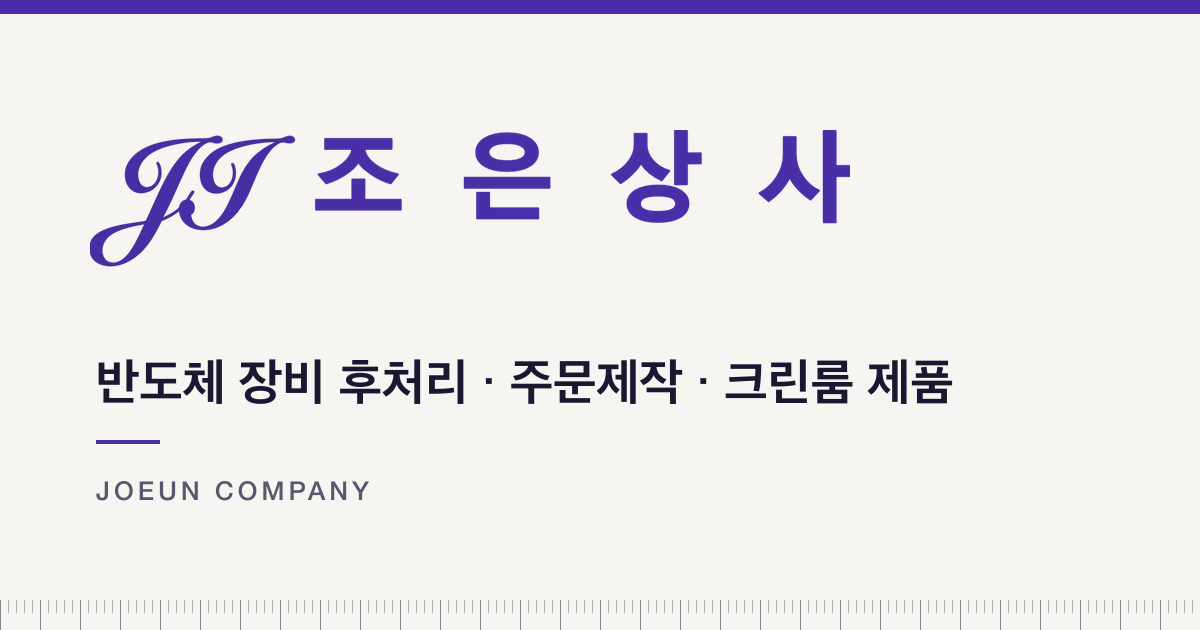
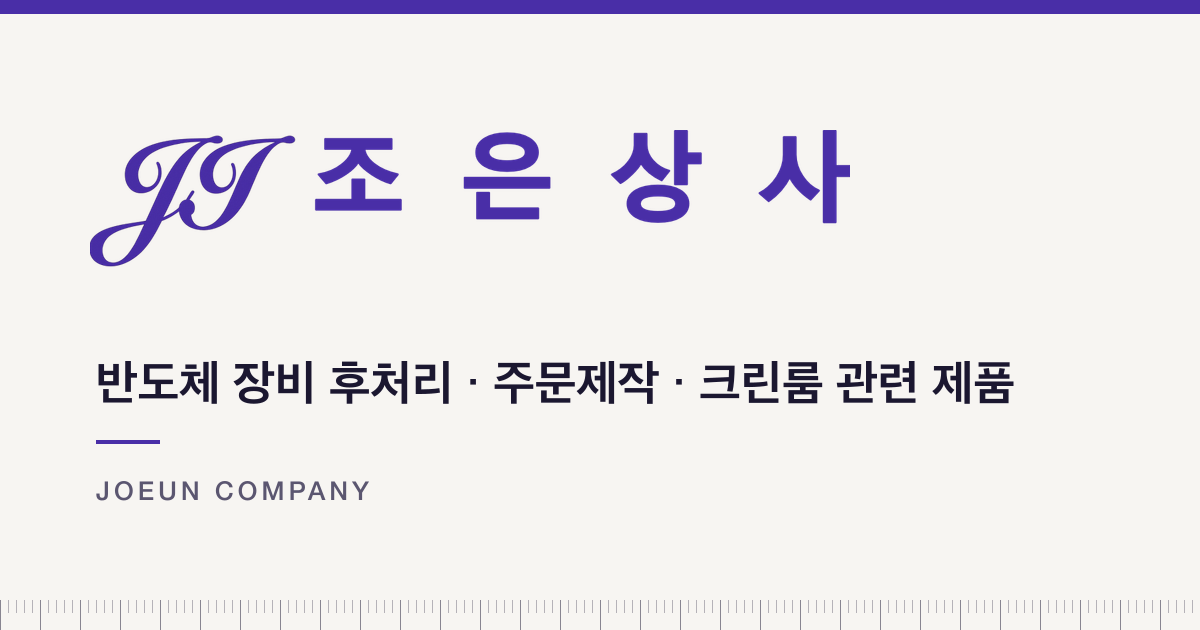
feat: 주소에서 B1 제거 및 크린룸 용품을 "크린룸 관련 제품"으로 변경
- 주소의 "B1" 표기를 제거 (푸터, 문의, 회사소개, 지도 링크, 구조화 데이터)
- 크린룸 용품 카테고리를 "크린룸 관련 제품"으로 변경하고 취급 품목을
  마스크, 클린면봉, 테프론(PTFE) 제작, 세라믹 제작, 특수 테이프,
  각종 약품으로 교체 (품목별 설명 추가, 제작 품목 상담 안내 섹션 추가)
- 이미지가 없는 품목은 번호 타일로 표시
- 사이트 제목/설명/키워드, 홈 히어로, 푸터, 문의 유형, 공유(OG) 이미지 문구 갱신
- 사용하지 않게 된 헤어캡·장갑 이미지 삭제, README 갱신

Changed region(s): [[0.0617, 0.573, 0.8633, 0.6635]]

diff --git a/src/lib/services.ts b/src/lib/services.ts
@@ -24,8 +24,8 @@ export const serviceCategories: Record<
     description: "알루미늄·SUS403 제품 주문제작과 용접, 샌딩 작업",
   },
   cleanroom: {
-    label: "크린룸 제품",
-    description: "헤어캡, 마스크, 면봉, 장갑 등 크린룸 소모품",
+    label: "크린룸 관련 제품",
+    description: "크린룸 소모품, 테프론·세라믹 제작, 특수 테이프, 각종 약품",
   },
 };
 
@@ -161,7 +161,7 @@ export const images = {
   ),
   supplies: stockPhoto(
     "cleanroom-supplies",
-    "마스크와 장갑 등 크린룸 소모품",
+    "마스크 등 크린룸 소모품",
     "Polina Tankilevitch (Pexels)",
     "https://www.pexels.com/photo/pastel-colored-face-masks-on-white-background-7337879/",
     "Pexels License",
@@ -188,14 +188,6 @@ const productPhoto = (
 
 /** 취급 품목별 이미지 (스톡 사진). 실제 제품 사진이 생기면 같은 이름으로 교체하세요. */
 const productImages = {
-  haircap: productPhoto(
-    "haircap",
-    "헤어캡",
-    "kaboompics.com (Pexels)",
-    "https://www.pexels.com/photo/person-holding-a-bouffant-cap-8538701/",
-    "Pexels License",
-    true,
-  ),
   mask: productPhoto(
     "mask-white",
     "흰색 일회용 마스크",
@@ -210,28 +202,6 @@ const productImages = {
     "https://www.pexels.com/photo/close-up-shot-of-cotton-buds-7612836/",
     "Pexels License",
     true,
-  ),
-  gloveCotton: productPhoto(
-    "glove-cotton",
-    "목장갑",
-    "gadaji66 (Pixabay)",
-    "https://pixabay.com/photos/work-gloves-gloves-red-gloves-865500/",
-    "Pixabay Content License",
-    true,
-  ),
-  gloveCoated: productPhoto(
-    "glove-coated",
-    "반코팅 목장갑",
-    "gadaji66 (Pixabay)",
-    "https://pixabay.com/photos/work-gloves-gloves-red-gloves-865500/",
-    "Pixabay Content License",
-  ),
-  gloveNitrile: productPhoto(
-    "glove-nitrile",
-    "니트릴 장갑",
-    "Callum Hilton (Pexels)",
-    "https://www.pexels.com/photo/a-pair-of-blue-latex-gloves-7856715/",
-    "Pexels License",
   ),
 } as const;
 
@@ -377,20 +347,15 @@ export const services: Service[] = [
     slug: "cleanroom-products",
     category: "cleanroom",
     image: images.supplies,
-    name: "크린룸 제품",
-    subtitle: "헤어캡·마스크·면봉·장갑 등 크린룸 소모품",
+    name: "크린룸 관련 제품",
+    subtitle: "마스크·면봉부터 테프론·세라믹 제작, 특수 테이프, 각종 약품까지",
     summary:
-      "크린룸 작업 환경에서 사용하는 헤어캡, 마스크, 면봉, 장갑 등 크린룸 소모품을 취급합니다.",
+      "크린룸과 반도체 현장에서 필요한 마스크, 면봉, 테프론(PTFE)·세라믹 제작품, 특수 테이프, 각종 약품을 취급합니다.",
     intro: [
-      "크린룸에서는 작업자와 소모품에서 발생하는 먼지와 이물이 제품 품질에 영향을 줄 수 있습니다. 조은상사는 반도체를 비롯한 청정 환경 현장에서 사용하는 헤어캡, 마스크, 면봉, 장갑 등 크린룸(클린룸) 제품을 취급합니다.",
+      "크린룸(클린룸)과 반도체 현장에서는 소모품부터 소재 가공품, 부자재, 약품까지 다양한 품목이 필요합니다. 조은상사는 마스크와 면봉 같은 크린룸 소모품, 테프론(PTFE)과 세라믹 제작, 특수 테이프, 각종 약품을 취급합니다.",
+      "필요한 품목과 사양을 알려 주시면 용도와 사용 환경에 맞춰 상담해 드립니다.",
     ],
     products: [
-      {
-        name: "헤어캡",
-        description:
-          "작업자의 머리카락과 비듬 등이 작업 환경으로 떨어지는 것을 줄이기 위해 착용하는 용품입니다.",
-        image: productImages.haircap,
-      },
       {
         name: "마스크",
         description:
@@ -404,47 +369,58 @@ export const services: Service[] = [
         image: productImages.swab,
       },
       {
-        name: "목장갑",
+        name: "테프론(PTFE) 제작",
         description:
-          "면사로 짜서 만든 작업용 장갑으로, 일반 작업 시 손을 보호하는 데 사용합니다.",
-        image: productImages.gloveCotton,
+          "PTFE(테프론) 소재를 도면과 사양에 맞춰 제작합니다. 내화학성과 내열성이 필요하고 마찰이 적어야 하는 부품과 제품에 사용됩니다.",
       },
       {
-        name: "반코팅 목장갑",
+        name: "세라믹 제작",
         description:
-          "목장갑의 손바닥 쪽에 코팅을 입혀 미끄럼을 줄이고 내구성을 높인 작업용 장갑입니다.",
-        image: productImages.gloveCoated,
+          "세라믹 소재 제품을 도면과 사양에 맞춰 제작합니다. 내열성, 내마모성, 절연성이 요구되는 부품에 사용됩니다.",
       },
       {
-        name: "니트릴 장갑",
+        name: "특수 테이프",
         description:
-          "니트릴 소재의 일회용 장갑으로, 손에서 발생하는 오염과 이물을 줄이기 위해 착용합니다.",
-        image: productImages.gloveNitrile,
+          "사용 환경과 용도에 맞는 특수 테이프를 공급합니다. 소재와 접착 방식, 사용 온도 등 필요한 사양을 알려 주시면 상담해 드립니다.",
+      },
+      {
+        name: "각종 약품",
+        description:
+          "현장에서 사용하는 각종 약품을 취급합니다. 품목과 용도, 수량에 맞춰 상담해 드립니다.",
       },
     ],
     sections: [
       {
+        heading: "제작 품목 상담 시 알려 주세요",
+        items: [
+          "도면 또는 샘플, 사진 등 제작 참고 자료",
+          "소재와 요구 사양 (치수, 사용 환경 등)",
+          "수량과 희망 납기",
+        ],
+      },
+      {
         heading: "그 밖의 품목",
-        body: "위 품목 외에도 크린룸에서 사용하는 소모품을 취급합니다. 필요한 품목과 규격, 수량을 문의해 주세요.",
+        body: "위 품목 외에도 크린룸과 반도체 현장에서 필요한 제품을 상담해 드립니다. 필요한 품목과 규격, 수량을 문의해 주세요.",
       },
     ],
     related: ["semiconductor-equipment-post-processing"],
     seo: {
-      title: "크린룸 제품 - 헤어캡·마스크·클린면봉·장갑",
+      title: "크린룸 관련 제품 - 테프론·세라믹 제작, 특수 테이프, 약품",
       description:
-        "크린룸(클린룸)에서 사용하는 헤어캡, 마스크, 클린면봉, 목장갑, 반코팅 목장갑, 니트릴 장갑 등 크린룸 소모품을 취급합니다. 필요한 품목과 규격을 조은상사에 문의하세요.",
+        "마스크, 클린면봉 등 크린룸 소모품과 테프론(PTFE)·세라믹 제작, 특수 테이프, 각종 약품을 취급합니다. 필요한 품목과 사양을 조은상사에 문의하세요.",
       keywords: [
+        "크린룸 관련 제품",
         "크린룸 제품",
         "클린룸 제품",
         "크린룸 소모품",
-        "크린룸 헤어캡",
         "크린룸 마스크",
-        "크린룸 면봉",
         "클린면봉",
-        "크린룸 장갑",
-        "목장갑",
-        "반코팅 목장갑",
-        "니트릴 장갑",
+        "크린룸 면봉",
+        "테프론 제작",
+        "PTFE 제작",
+        "세라믹 제작",
+        "특수 테이프",
+        "크린룸 약품",
       ],
     },
   },
@@ -460,8 +436,8 @@ export const capabilities = [
   },
   {
     label: "Supplies",
-    title: "크린룸 물품",
-    values: ["헤어캡", "마스크", "클린면봉", "목장갑·니트릴 장갑 등"],
+    title: "크린룸 관련 제품",
+    values: ["마스크", "면봉", "테프론(PTFE)·세라믹 제작", "특수 테이프", "각종 약품"],
   },
 ] as const;
 

diff --git a/src/lib/site.ts b/src/lib/site.ts
@@ -34,11 +34,11 @@ export const siteConfig = {
   language: "ko",
 
   /** 기본 title (홈) */
-  title: "조은상사 | 반도체 장비 후처리 · 주문제작 · 크린룸 제품",
+  title: "조은상사 | 반도체 장비 후처리 · 주문제작 · 크린룸 관련 제품",
   /** 각 페이지 title 에 붙는 접미사 */
   titleTemplate: "%s | 조은상사",
   description:
-    "조은상사(JoeunCompany, JJ)는 반도체 장비 후처리, 알루미늄·SUS403 제품 주문제작, 용접·샌딩, 크린룸 제품(헤어캡·마스크·면봉·장갑 등)을 취급합니다.",
+    "조은상사(JoeunCompany, JJ)는 반도체 장비 후처리, 알루미늄·SUS403 제품 주문제작, 용접·샌딩, 크린룸 관련 제품(마스크, 면봉, 테프론·세라믹 제작, 특수 테이프, 각종 약품)을 취급합니다.",
 
   keywords: [
     "조은상사",
@@ -56,6 +56,10 @@ export const siteConfig = {
     "클린룸",
     "크린룸 제품",
     "크린룸 관련 제품",
+    "테프론 제작",
+    "PTFE",
+    "세라믹 제작",
+    "특수 테이프",
   ],
 
   /** 콘텐츠를 실제로 수정한 날짜. sitemap 의 lastModified 에 사용 (빌드 시각이 아니라 실제 변경일을 쓰는 게 SEO 상 정확) */
@@ -66,12 +70,12 @@ export const siteConfig = {
     phone: "02-478-3514",
     fax: "02-478-3525",
     email: "joeunill1@naver.com",
-    address: "서울특별시 송파구 올림픽로51길 32, B1",
+    address: "서울특별시 송파구 올림픽로51길 32",
     /** 구조화 데이터(PostalAddress)용 주소 구성요소 */
     addressParts: {
       region: "서울특별시",
       locality: "송파구",
-      street: "올림픽로51길 32, B1",
+      street: "올림픽로51길 32",
     },
   } as {
     phone: string;

diff --git a/src/app/services/[slug]/page.tsx b/src/app/services/[slug]/page.tsx
@@ -91,13 +91,13 @@ export default async function ServiceDetailPage({
             <section>
               <SectionHeading eyebrow={nextEyebrow("Items")} title="취급 품목" />
               <ul className="mt-6 border-t border-line">
-                {service.products.map((product) => (
+                {service.products.map((product, index) => (
                   <li
                     key={product.name}
                     className="reveal grid grid-cols-[7rem_minmax(0,1fr)] gap-5 border-b border-line py-5 sm:grid-cols-[10rem_minmax(0,1fr)] sm:gap-8"
                   >
                     <div className="relative aspect-[4/3] overflow-hidden bg-paper-deep">
-                      {product.image && (
+                      {product.image ? (
                         <Image
                           src={product.image.src}
                           alt={product.image.alt}
@@ -105,6 +105,14 @@ export default async function ServiceDetailPage({
                           sizes="(min-width: 640px) 160px, 112px"
                           className="object-cover"
                         />
+                      ) : (
+                        /* 이미지가 아직 없는 품목은 번호 타일로 표시합니다. */
+                        <span
+                          aria-hidden="true"
+                          className="absolute inset-0 flex items-center justify-center font-mono text-2xl font-medium text-ink-soft/50"
+                        >
+                          {String(index + 1).padStart(2, "0")}
+                        </span>
                       )}
                     </div>
                     <div>

diff --git a/src/app/about/page.tsx b/src/app/about/page.tsx
@@ -8,7 +8,7 @@ import { siteConfig } from "@/lib/site";
 
 const title = "회사소개";
 const description =
-  "조은상사(JoeunCompany, JJ)는 반도체 장비 후처리, 금속 제품 주문제작, 크린룸 제품을 통해 반도체 산업 현장을 지원합니다.";
+  "조은상사(JoeunCompany, JJ)는 반도체 장비 후처리, 금속 제품 주문제작, 크린룸 관련 제품을 통해 반도체 산업 현장을 지원합니다.";
 
 export const metadata = createMetadata({
   title,
@@ -38,7 +38,7 @@ export default function AboutPage() {
         </div>
         <p className="reveal text-[17px] leading-9 lg:col-span-7 lg:pt-6">
           {siteConfig.name}({siteConfig.nameEn})은 반도체 장비 후처리와
-          알루미늄·SUS403 제품 주문제작, 용접, 샌딩, 그리고 크린룸 제품을
+          알루미늄·SUS403 제품 주문제작, 용접, 샌딩, 그리고 크린룸 관련 제품을
           취급하는 기업입니다. 청정도와 마감 상태가 중요한 반도체 산업
           현장에서 필요한 제품과 작업을 제공하기 위해 노력합니다.
         </p>

diff --git a/src/app/services/page.tsx b/src/app/services/page.tsx
@@ -8,7 +8,7 @@ import { getServicesByCategory } from "@/lib/services";
 
 const title = "제품·서비스";
 const description =
-  "반도체 장비 후처리, 알루미늄·SUS403 제품 주문제작, 용접, 샌딩, 크린룸 제품(헤어캡·마스크·면봉·장갑 등)을 취급합니다.";
+  "반도체 장비 후처리, 알루미늄·SUS403 제품 주문제작, 용접, 샌딩, 크린룸 관련 제품(마스크, 면봉, 테프론·세라믹 제작, 특수 테이프, 각종 약품)을 취급합니다.";
 
 export const metadata = createMetadata({
   title,
@@ -20,7 +20,10 @@ export const metadata = createMetadata({
     "SUS403",
     "용접",
     "샌딩",
-    "크린룸 제품",
+    "크린룸 관련 제품",
+    "테프론 제작",
+    "세라믹 제작",
+    "특수 테이프",
     "조은상사",
   ],
 });

diff --git a/src/app/page.tsx b/src/app/page.tsx
@@ -40,14 +40,14 @@ export default function HomePage() {
               <br />
               금속 주문제작,
               <br />
-              크린룸 제품.
+              크린룸 관련 제품.
             </h1>
             <p
               className="hero-in mt-8 max-w-xl text-lg leading-8 text-ink-soft"
               style={heroDelay(2)}
             >
               알루미늄·SUS403 제품 주문제작과 용접·샌딩, 반도체 장비 후처리,
-              그리고 헤어캡·마스크·면봉·장갑 등 크린룸 제품을 취급합니다.
+              그리고 마스크·면봉, 테프론·세라믹 제작, 특수 테이프, 각종 약품 등 크린룸 관련 제품을 취급합니다.
             </p>
             <div
               className="hero-in mt-10 flex flex-wrap gap-3"

diff --git a/src/components/contact-cta.tsx b/src/components/contact-cta.tsx
@@ -12,7 +12,7 @@ export function ContactCta() {
         <div className="reveal md:col-span-7">
           <p className="label !text-accent-light">Contact</p>
           <h2 className="mt-3 text-3xl font-bold leading-[1.25] tracking-tight sm:text-4xl">
-            후처리, 주문제작, 크린룸 제품
+            후처리, 주문제작, 크린룸 관련 제품
             <br />
             상담이 필요하신가요?
           </h2>

diff --git a/src/app/contact/page.tsx b/src/app/contact/page.tsx
@@ -7,7 +7,7 @@ import { siteConfig } from "@/lib/site";
 
 const title = "문의하기";
 const description =
-  "반도체 장비 후처리, 주문제작, 용접·샌딩, 크린룸 제품에 대한 문의는 조은상사로 연락해 주세요.";
+  "반도체 장비 후처리, 주문제작, 용접·샌딩, 크린룸 관련 제품에 대한 문의는 조은상사로 연락해 주세요.";
 
 export const metadata = createMetadata({
   title,

diff --git a/src/components/site-footer.tsx b/src/components/site-footer.tsx
@@ -24,7 +24,7 @@ export function SiteFooter() {
         <div className="md:col-span-5">
           <Logo className="h-9 w-auto" />
           <p className="mt-6 max-w-sm text-sm leading-7 text-ink-soft">
-            반도체 장비 후처리, 금속 주문제작, 크린룸 제품을 취급합니다.
+            반도체 장비 후처리, 금속 주문제작, 크린룸 관련 제품을 취급합니다.
           </p>
         </div>
 

diff --git a/src/lib/contact.ts b/src/lib/contact.ts
@@ -6,7 +6,7 @@ export const inquiryTypes = [
   { value: "semiconductor", label: "반도체 장비 후처리" },
   { value: "fabrication", label: "알루미늄·SUS403 제품 주문제작" },
   { value: "welding-sanding", label: "용접·샌딩" },
-  { value: "cleanroom", label: "크린룸 제품" },
+  { value: "cleanroom", label: "크린룸 관련 제품" },
   { value: "other", label: "기타 문의" },
 ] as const;
 

diff --git a/src/lib/seo.ts b/src/lib/seo.ts
@@ -6,7 +6,7 @@ export const ogImage = {
   url: "/og-image.png",
   width: 1200,
   height: 630,
-  alt: `${siteConfig.name} - 반도체 장비 후처리 · 주문제작 · 크린룸 제품`,
+  alt: `${siteConfig.name} - 반도체 장비 후처리 · 주문제작 · 크린룸 관련 제품`,
 };
 
 type PageSeo = {

diff --git a/README.md b/README.md
@@ -73,20 +73,17 @@ seo: {
 | `fabrication-cutting.jpg` | 제품 주문제작 | [Ana Victoria Valverde / Pexels](https://www.pexels.com/photo/plasma-cutting-in-factory-17180807/) | Pexels License |
 | `welding.jpg` | 용접 | [Valentin Saumon / Pexels](https://www.pexels.com/photo/a-person-wearing-a-protective-head-shield-welding-metals-9130186/) | Pexels License |
 | `sanding-grinder.jpg` | 샌딩 | [Guduru Ajay bhargav / Pexels](https://www.pexels.com/photo/person-using-green-and-grey-angle-grinder-on-sheet-of-metal-977526/) | Pexels License |
-| `cleanroom-supplies.jpg` | 크린룸 제품 | [Polina Tankilevitch / Pexels](https://www.pexels.com/photo/pastel-colored-face-masks-on-white-background-7337879/) | Pexels License |
+| `cleanroom-supplies.jpg` | 크린룸 관련 제품 | [Polina Tankilevitch / Pexels](https://www.pexels.com/photo/pastel-colored-face-masks-on-white-background-7337879/) | Pexels License |
 
-취급 품목(크린룸 제품)의 이미지는 `public/images/products/` 에 있습니다. (800×600, 4:3)
+취급 품목(크린룸 관련 제품)의 이미지는 `public/images/products/` 에 있습니다. (800×600, 4:3)
 
 | 파일 | 품목 | 출처 | 라이선스 |
 | --- | --- | --- | --- |
-| `haircap.jpg` | 헤어캡 (청록색 제품, 실제와 다름) | [kaboompics.com / Pexels](https://www.pexels.com/photo/person-holding-a-bouffant-cap-8538701/) | Pexels License |
 | `mask-white.jpg` | 마스크 | [Media Studio Hong Kong / Pexels](https://www.pexels.com/photo/a-white-face-mask-on-a-white-surface-8264728/) | Pexels License |
 | `swab-clean.jpg` | 클린면봉 (일반 면봉, 실제와 다름) | [Daniel Dan / Pexels](https://www.pexels.com/photo/close-up-shot-of-cotton-buds-7612836/) | Pexels License |
-| `glove-cotton.jpg` | 목장갑 (코팅 장갑 사진, 실제와 다름) | [gadaji66 / Pixabay](https://pixabay.com/photos/work-gloves-gloves-red-gloves-865500/) | Pixabay Content License |
-| `glove-coated.jpg` | 반코팅 목장갑 | [gadaji66 / Pixabay](https://pixabay.com/photos/work-gloves-gloves-red-gloves-865500/) | Pixabay Content License |
-| `glove-nitrile.jpg` | 니트릴 장갑 | [Callum Hilton / Pexels](https://www.pexels.com/photo/a-pair-of-blue-latex-gloves-7856715/) | Pexels License |
 
 "실제와 다름"으로 표시한 이미지는 실제 취급 제품과 색상·형태가 다른 스톡 사진입니다. (화면에는 표시되지 않음)
+테프론(PTFE) 제작, 세라믹 제작, 특수 테이프, 각종 약품은 아직 이미지가 없어 번호 타일로 표시됩니다. 이미지를 추가하려면 `src/lib/services.ts` 의 `productImages` 에 항목을 만들고 해당 품목의 `image` 에 연결하세요.
 실제 제품 사진이 생기면 같은 파일명으로 교체하고 `src/lib/services.ts` 의 `approximate` 값을 제거하세요.
 
 실제 작업 사진으로 교체할 때는 같은 비율(1600×700, 21:9)의 이미지를 `public/images/` 에 넣고
